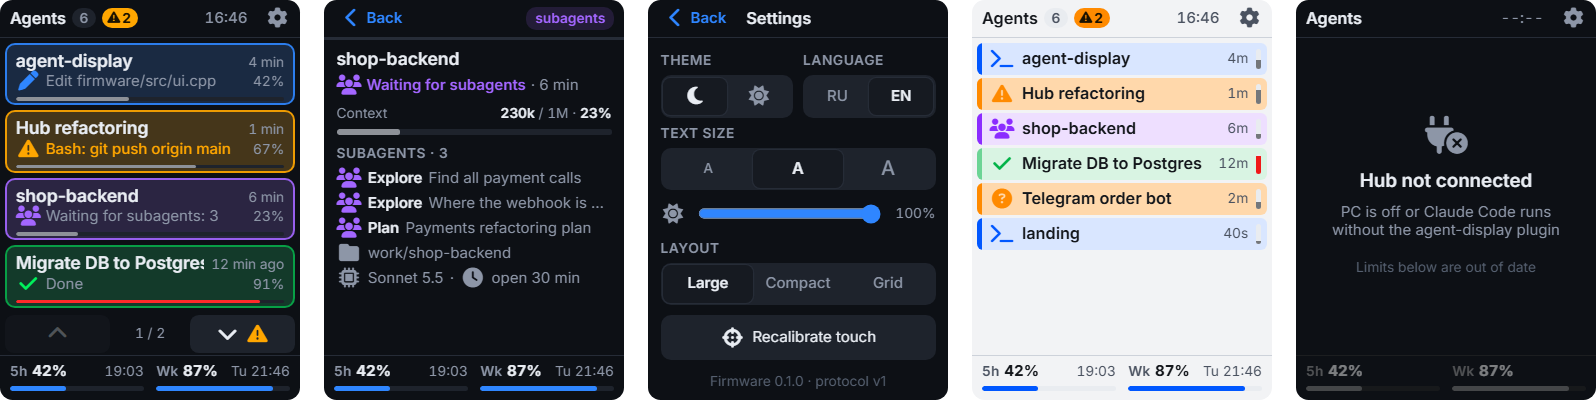
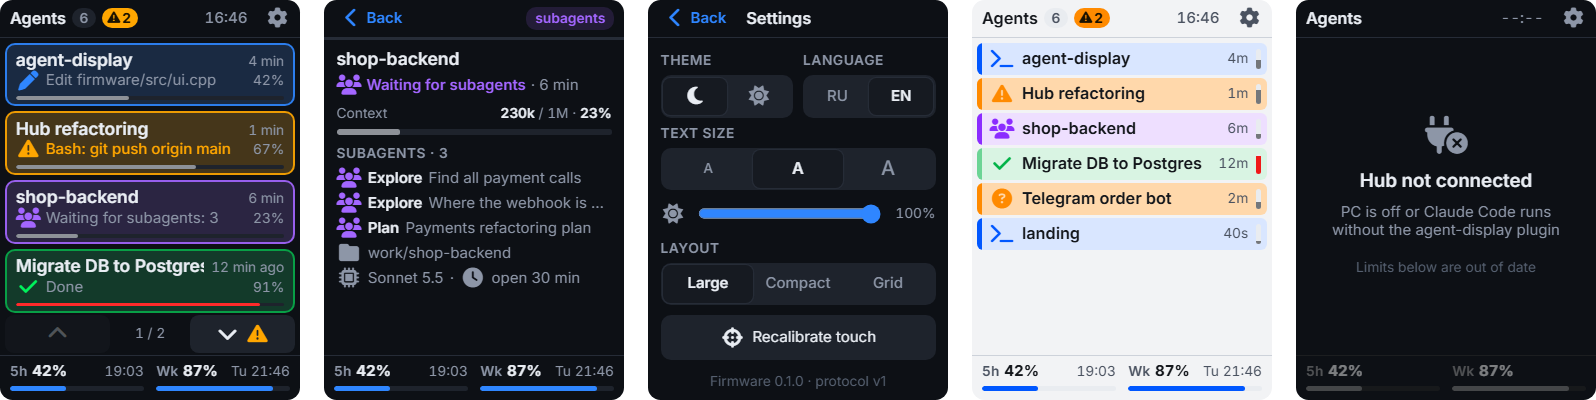
feat(ui): stretch list items to fill the page

diff --git a/design/index.html b/design/index.html
@@ -100,7 +100,7 @@ body.cap { background:transparent; }
 .list { flex:1; padding:4px 4px 0; display:flex; flex-direction:column; gap:4px; overflow:hidden; }
 /* large */
 .card { height:var(--ch); flex:none; border:2px solid color-mix(in srgb, var(--c) var(--frame), transparent); border-radius:8px; background:var(--panel);
-        padding:4px 7px 0; display:flex; flex-direction:column; }
+        padding:0 7px; display:flex; flex-direction:column; justify-content:center; }
 .st-done.card, .st-idle.card { border-color:color-mix(in srgb, var(--c) var(--frame-dim), transparent); }
 .card .r1 { display:flex; gap:6px; align-items:baseline; height:calc(var(--fn) + 3px); }
 .card .nm { font-size:var(--fn); line-height:calc(var(--fn) + 3px); font-weight:600; flex:1; }
@@ -125,7 +125,7 @@ body.cap { background:transparent; }
 .vbar i { position:absolute; left:0; right:0; bottom:0; background:var(--fg); opacity:.55; }
 /* grid */
 .l-grid { display:grid; grid-template-columns:1fr 1fr; grid-auto-rows:var(--gh); align-content:start; }
-.cell { border:2px solid color-mix(in srgb, var(--c) var(--frame), transparent); border-radius:8px; background:var(--panel); padding:4px 6px 0; display:flex; flex-direction:column; min-width:0; }
+.cell { border:2px solid color-mix(in srgb, var(--c) var(--frame), transparent); border-radius:8px; background:var(--panel); padding:0 6px; display:flex; flex-direction:column; justify-content:center; min-width:0; }
 .st-done.cell, .st-idle.cell { border-color:color-mix(in srgb, var(--c) var(--frame-dim), transparent); }
 .cell .nm { font-weight:600; font-size:calc(var(--fn) - 1px); line-height:calc(var(--fn) + 2px); }
 .cell .r2 { display:flex; align-items:center; gap:3px; color:var(--mut); font-size:var(--fs); height:calc(var(--fs) + 4px); }
@@ -474,8 +474,12 @@ class Board {
     const from = u.page * per, waits = ss.map((x, i) => x.status === 'wait' ? i : -1).filter(i => i >= 0);
     const above = waits.filter(i => i < from).length, below = waits.filter(i => i >= from + per).length;
     const pb = (d, n, dis) => `<button class="pg" data-a="${d}" ${dis ? 'disabled' : ''}>${icon(d)}${n ? `<span class="pw">${icon('warn')}</span>` : ''}</button>`;
+    // stretch items so the page slots fill the list area (by slots, not sessions, so the last page looks the same)
+    const gap = u.layout === 'compact' ? 2 : 4, slots = u.layout === 'grid' ? per / 2 : per;
+    const base = u.layout === 'large' ? z.ch : u.layout === 'compact' ? z.rh : z.gh;
+    const h = Math.max(base, Math.floor(((paged ? 220 : 254) - 4 - (slots - 1) * gap) / slots));
     return this.hdr()
-      + `<div class="list l-${u.layout}">${ss.slice(from, from + per).map(x => L.item(x, s.now, T)).join('')}</div>`
+      + `<div class="list l-${u.layout}" style="--ch:${h}px;--rh:${h}px;--gh:${h}px">${ss.slice(from, from + per).map(x => L.item(x, s.now, T)).join('')}</div>`
       + (paged ? `<div class="pager">${pb('up', above, u.page === 0)}<span class="pn">${u.page + 1} / ${pages}${s.sessions_more ? ` · +${s.sessions_more}` : ''}</span>${pb('down', below, u.page === pages - 1)}</div>` : '')
       + this.ftr();
   }

diff --git a/firmware/src/app/ui.cpp b/firmware/src/app/ui.cpp
@@ -484,17 +484,18 @@ lv_obj_t* tile(lv_obj_t* scr, const Session& s, int x, int y, int w, int h, int 
   return o;
 }
 
-void card(lv_obj_t* scr, const Session& s, int y) {
+void card(lv_obj_t* scr, const Session& s, int y, int h) {
   const Theme& t = th();
   const Size& z = sz();
   uint32_t c = st_color(s);
   int w = W - 8, inner = w - 4 - 14;  // 2 px frame each side, 7 px padding
-  lv_obj_t* o = tile(scr, s, 4, y, w, z.card, 8, true);
+  lv_obj_t* o = tile(scr, s, 4, y, w, h, 8, true);
+  int top = 3 + (h - z.card) / 2;  // content centered when the card is stretched
   lv_obj_t* tm = text(o, time_text(s, false), z.fs, false, t.mut);
   int tw = width_of(tm);
-  lv_obj_set_pos(tm, 7 + inner - tw, 3 + (line_h(z.fn, true) - line_h(z.fs)) / 2 + 1);
-  marquee(o, 7, 3, inner - tw - 6, s.name, z.fn, true, t.fg);
-  int r2 = 3 + line_h(z.fn, true) + 1;
+  lv_obj_set_pos(tm, 7 + inner - tw, top + (line_h(z.fn, true) - line_h(z.fs)) / 2 + 1);
+  marquee(o, 7, top, inner - tw - 6, s.name, z.fn, true, t.fg);
+  int r2 = top + line_h(z.fn, true) + 1;
   const char* ic;
   String txt;
   line2(s, ic, txt);
@@ -507,14 +508,14 @@ void card(lv_obj_t* scr, const Session& s, int y) {
   ctx_bar(o, 7, r2 + line_h(z.ft) + 4, inner, 3, s.ctx);
 }
 
-void row(lv_obj_t* scr, const Session& s, int y) {
+void row(lv_obj_t* scr, const Session& s, int y, int h) {
   const Theme& t = th();
   const Size& z = sz();
   uint32_t c = st_color(s);
   int w = W - 8;
-  lv_obj_t* o = tile(scr, s, 4, y, w, z.row, 5, false);
-  fill(box(o, 0, 0, 4, z.row), hex(c), dimmed(s) ? 128 : LV_OPA_COVER);
-  lv_obj_t* vb = round(fill(box(o, w - 9, (z.row - 16) / 2, 4, 16), hex(t.panel2)), 2);
+  lv_obj_t* o = tile(scr, s, 4, y, w, h, 5, false);
+  fill(box(o, 0, 0, 4, h), hex(c), dimmed(s) ? 128 : LV_OPA_COVER);
+  lv_obj_t* vb = round(fill(box(o, w - 9, (h - 16) / 2, 4, 16), hex(t.panel2)), 2);
   if (s.ctx > 0) {
     int hh = max(2, 16 * min(s.ctx, 100) / 100);
     round(fill(box(vb, 0, 16 - hh, 4, hh), hex(level_color(s.ctx, t.fg)), s.ctx >= 70 ? LV_OPA_COVER : 140), 2);
@@ -522,19 +523,20 @@ void row(lv_obj_t* scr, const Session& s, int y) {
   lv_obj_t* tm = text(o, time_text(s, true), z.fs, false, t.mut);
   int tw = width_of(tm);
   lv_obj_align(tm, LV_ALIGN_RIGHT_MID, -15, 0);
-  int nx = 7 + SLOT + 4, ny = (z.row - line_h(z.fn - 1, true)) / 2;
+  int nx = 7 + SLOT + 4, ny = (h - line_h(z.fn - 1, true)) / 2;
   icon_at(o, st_icon(s), ICON, c, 7, ny, z.fn - 1, true);
   marquee(o, nx, ny, w - nx - 15 - tw - 6, s.name, z.fn - 1, true, t.fg);
 }
 
-void cell(lv_obj_t* scr, const Session& s, int x, int y) {
+void cell(lv_obj_t* scr, const Session& s, int x, int y, int h) {
   const Theme& t = th();
   const Size& z = sz();
   uint32_t c = st_color(s);
   int w = (W - 8 - 4) / 2, inner = w - 4 - 12;
-  lv_obj_t* o = tile(scr, s, x, y, w, z.cell, 8, true);
-  marquee(o, 6, 3, inner, s.name, z.fn - 1, true, t.fg);
-  int r2 = 3 + line_h(z.fn - 1, true) + 1;
+  lv_obj_t* o = tile(scr, s, x, y, w, h, 8, true);
+  int top = 3 + (h - z.cell) / 2;
+  marquee(o, 6, top, inner, s.name, z.fn - 1, true, t.fg);
+  int r2 = top + line_h(z.fn - 1, true) + 1;
   icon_at(o, st_icon(s), ICON, c, 4, r2, z.fs, is_wait(s));
   String tt = time_text(s, true);
   String lbl = String(st_label(s, true)) + (tt.length() ? String(" · ") + tt : String());
@@ -602,10 +604,14 @@ void build_main(lv_obj_t* scr) {
   int per = paged ? cap_paged : cap_all, pages = (n + per - 1) / per;
   page = constrain(page, 0, pages - 1);
   int from = page * per, to = min(n, from + per), y = HDR + 4;
+  // stretch items so the page slots fill the list area; by slots, not sessions, so the last page looks the same
+  int gap = cfg.layout == 1 ? 2 : 4, slots = cfg.layout == 2 ? per / 2 : per;
+  int base = cfg.layout == 0 ? z.card : cfg.layout == 1 ? z.row : z.cell;
+  int h = max(base, ((paged ? LIST - PAGER : LIST) - 4 - (slots - 1) * gap) / slots);
   for (int i = from; i < to; i++) {
-    if (cfg.layout == 0) { card(scr, ss[i], y); y += z.card + 4; }
-    else if (cfg.layout == 1) { row(scr, ss[i], y); y += z.row + 2; }
-    else { int k = i - from; cell(scr, ss[i], 4 + (k % 2) * ((W - 12) / 2 + 4), HDR + 4 + (k / 2) * (z.cell + 4)); }
+    if (cfg.layout == 0) { card(scr, ss[i], y, h); y += h + gap; }
+    else if (cfg.layout == 1) { row(scr, ss[i], y, h); y += h + gap; }
+    else { int k = i - from; cell(scr, ss[i], 4 + (k % 2) * ((W - 12) / 2 + 4), HDR + 4 + (k / 2) * (h + gap), h); }
   }
   if (paged) {
     int above = 0, below = 0;  // sessions waiting for you on other pages: a blinking ⚠ on that arrow

diff --git a/CLAUDE.md b/CLAUDE.md
@@ -174,6 +174,8 @@ IDEA/PhpStorm — Claude Code там тот же CLI, хуки работают 
   «Крупно» (~4 агента списком), «Компактно» (~7–8 строк), «Сетка 2×N» (короткие названия).
   Для вертикального экрана базовый вид — список строк на всю ширину (~30 символов в названии),
   а не сетка (в 120 px влезает ~15 символов).
+  Карточки/строки/ячейки растягиваются по высоте, чтобы заполнить страницу до ▲▼ (считается по числу
+  мест на странице, а не агентов — последняя страница выглядит так же). Проверено на плате с текстом 16 px.
 
 **Подробности** (тап по агенту):
 - полное название;
